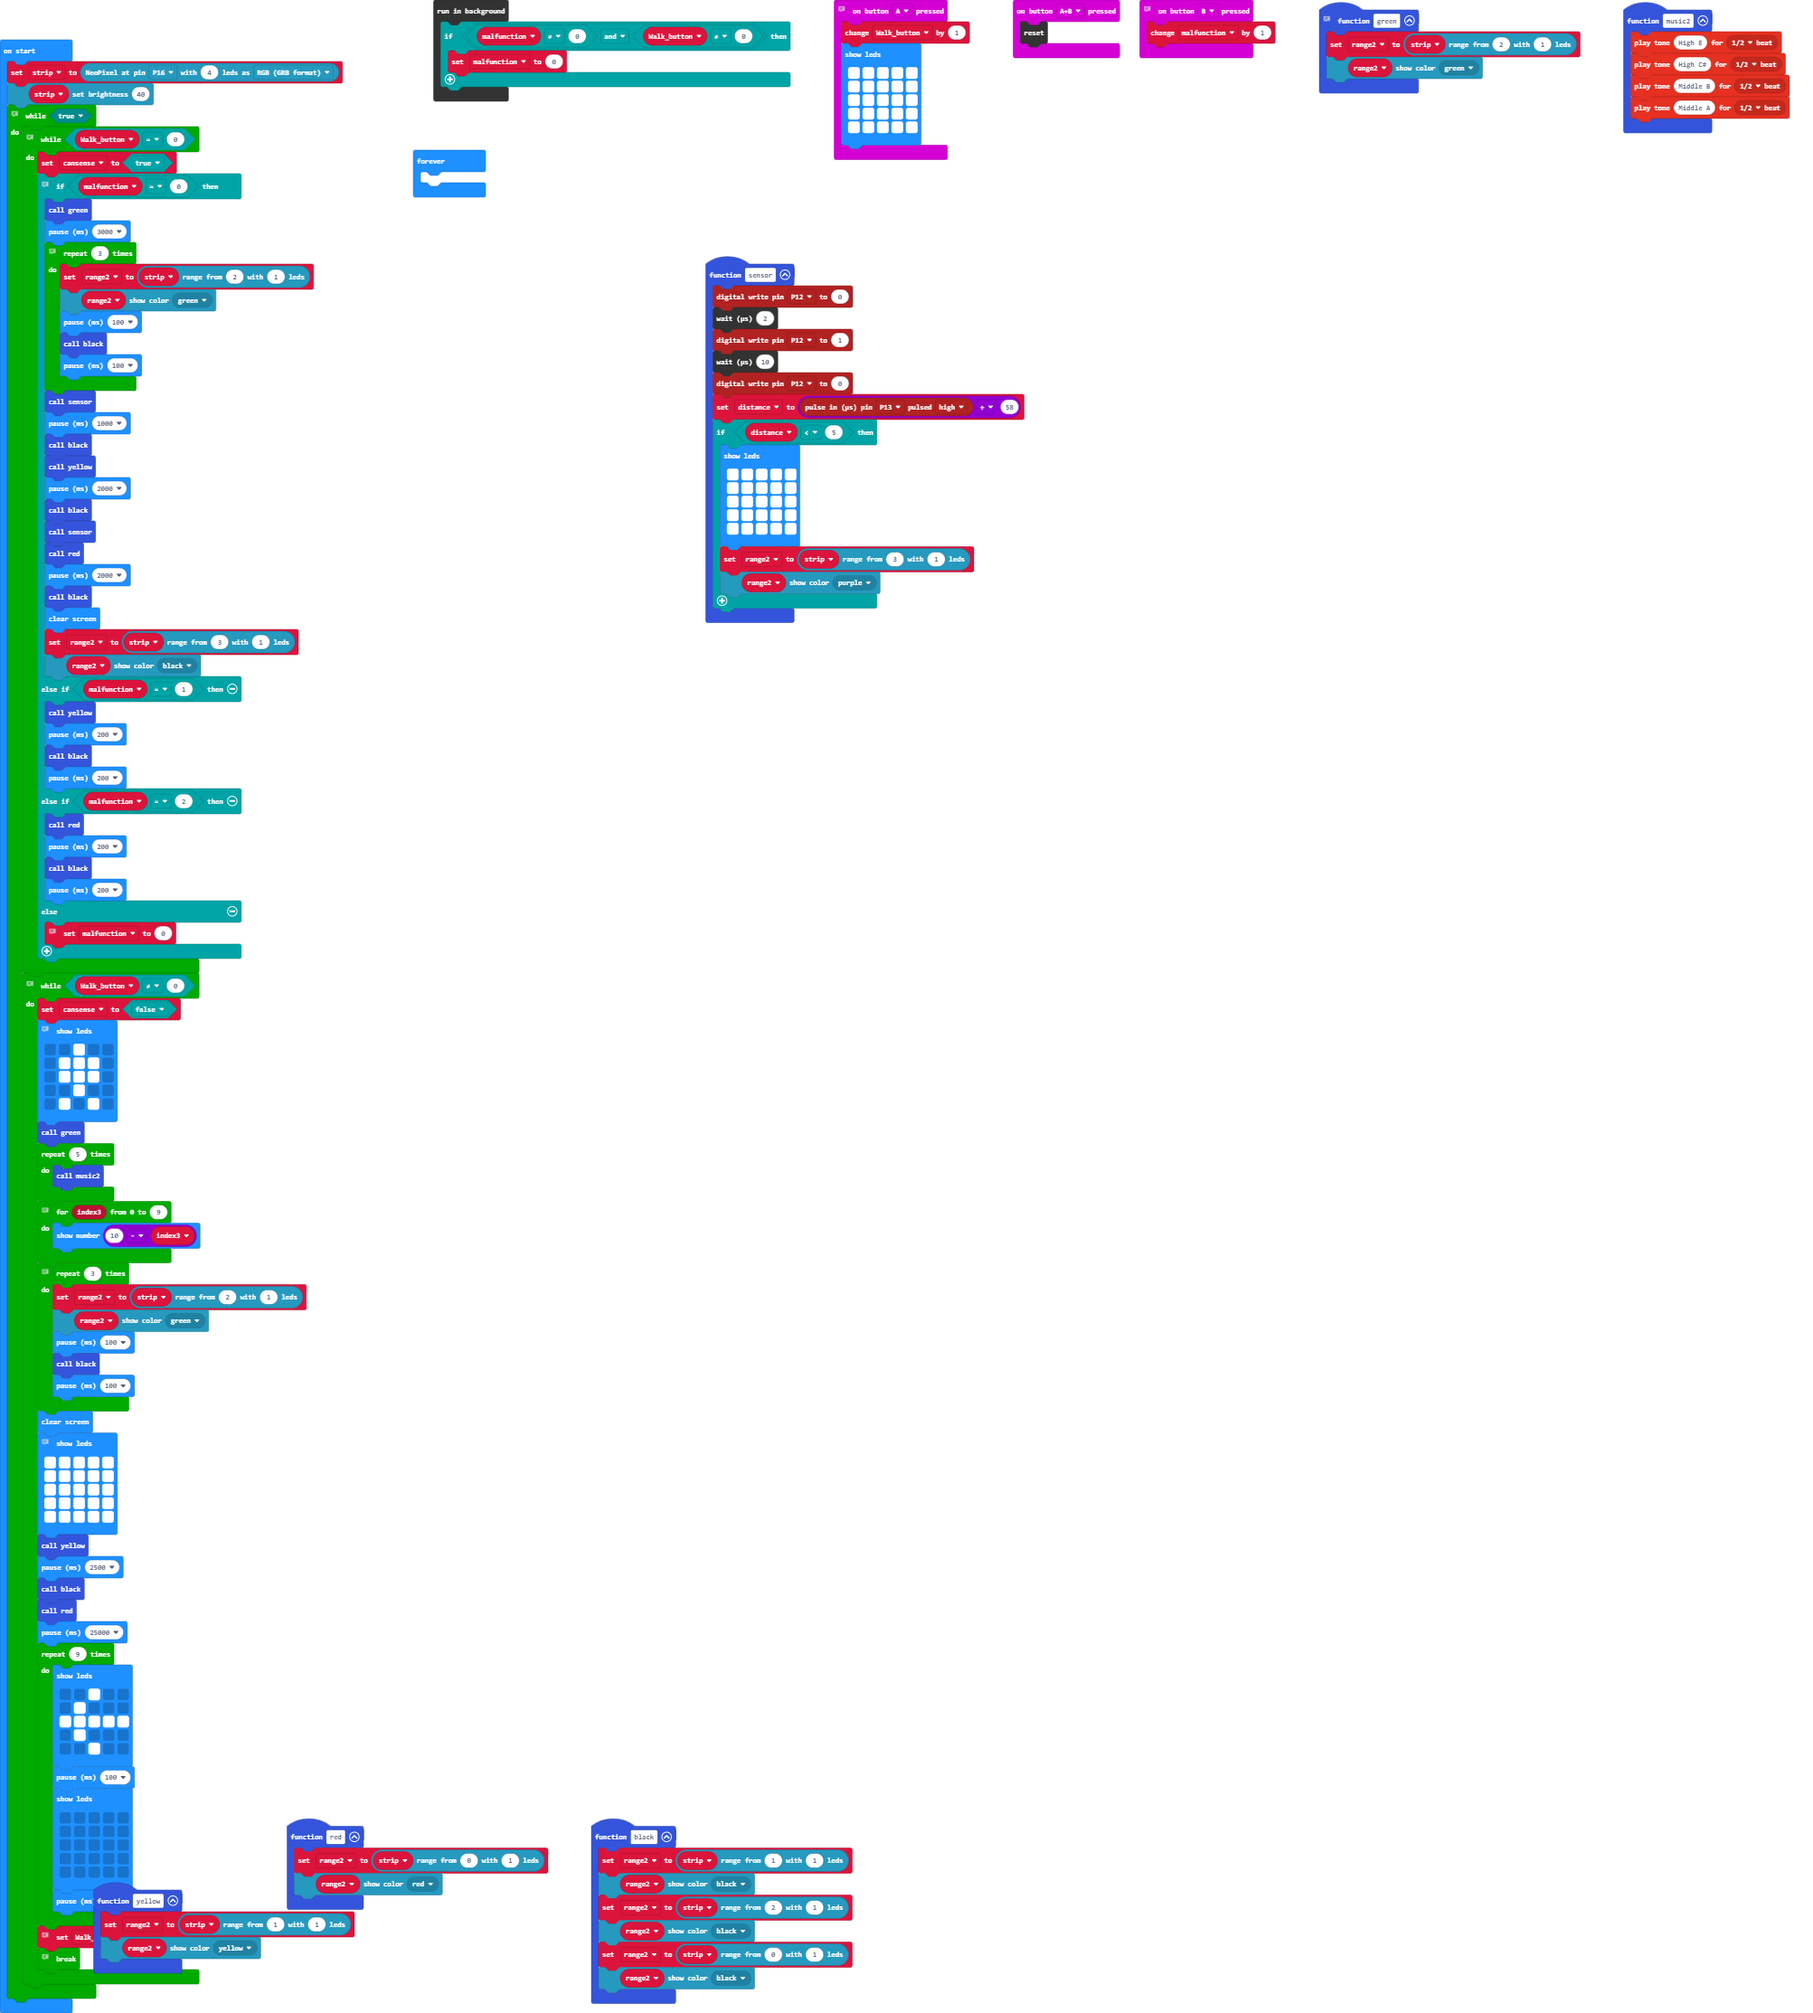
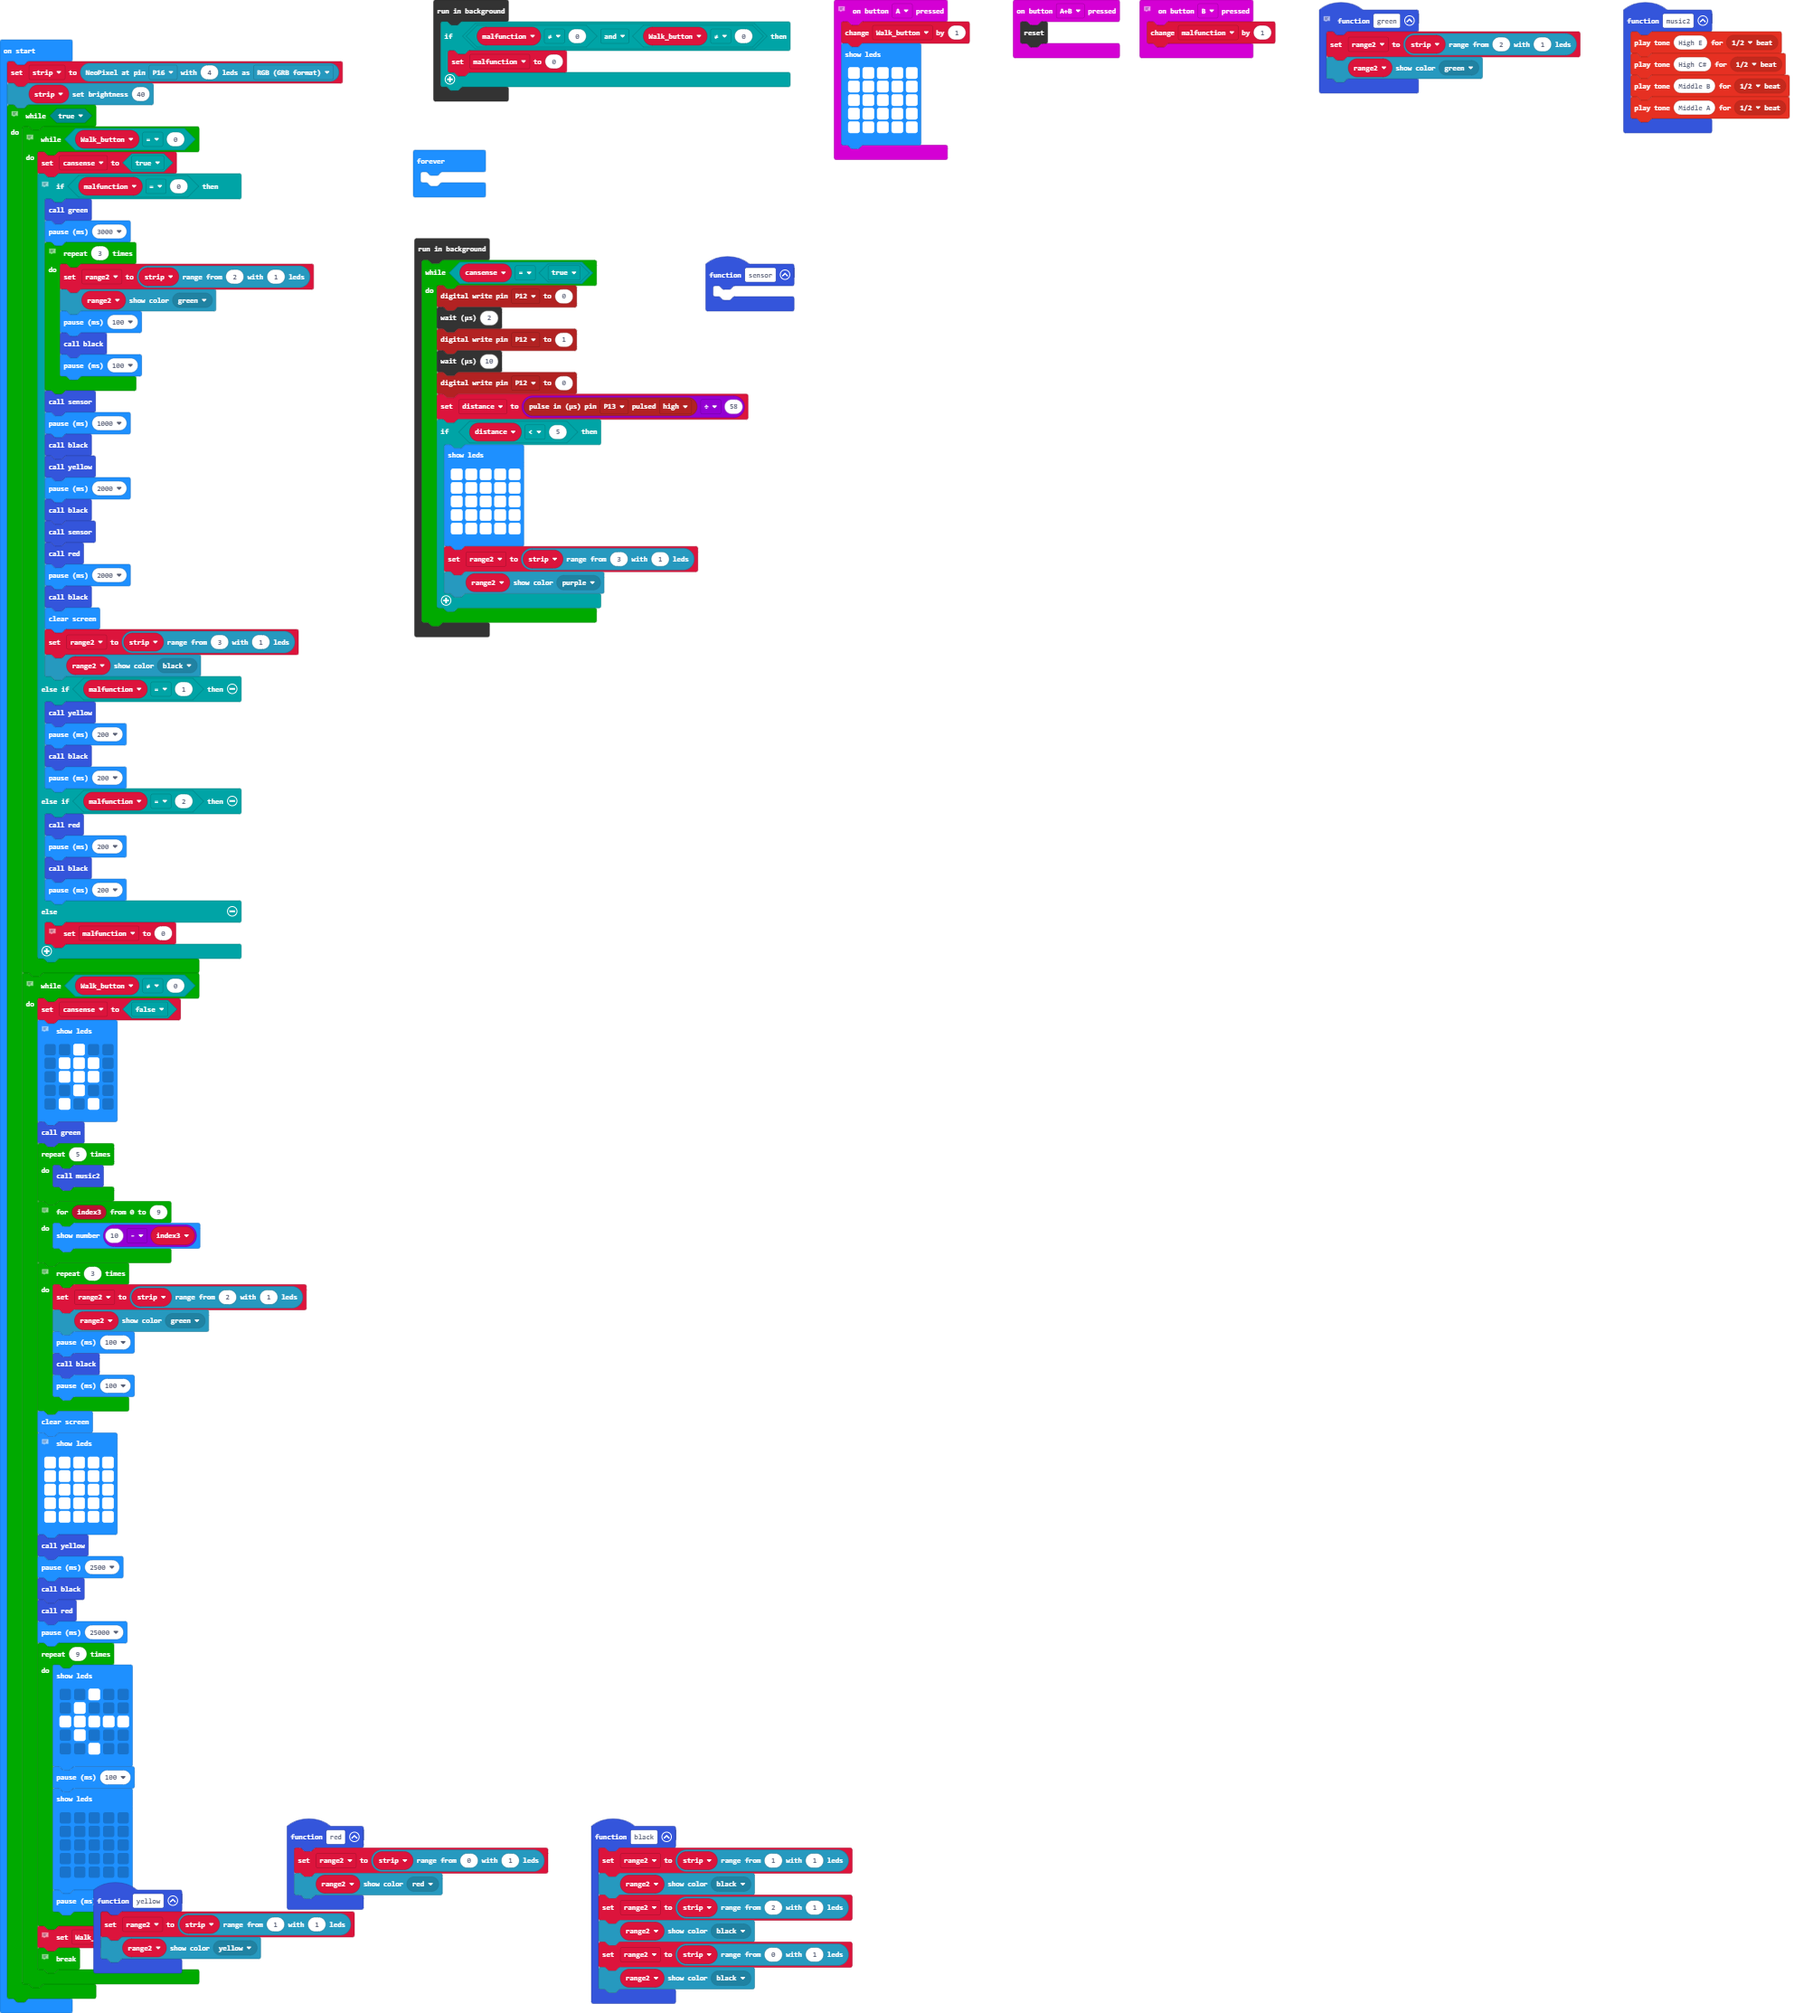
Update main.blocks, main.ts

Changed region(s): [[0.2165, 0.093, 0.5566, 0.341]]

diff --git a/main.ts b/main.ts
@@ -38,23 +38,7 @@ function black () {
     range2.showColor(neopixel.colors(NeoPixelColors.Black))
 }
 function sensor () {
-    pins.digitalWritePin(DigitalPin.P12, 0)
-    control.waitMicros(2)
-    pins.digitalWritePin(DigitalPin.P12, 1)
-    control.waitMicros(10)
-    pins.digitalWritePin(DigitalPin.P12, 0)
-    distance = pins.pulseIn(DigitalPin.P13, PulseValue.High) / 58
-    if (distance < 5) {
-        basic.showLeds(`
-            # # # # #
-            # # # # #
-            # # # # #
-            # # # # #
-            # # # # #
-            `)
-        range2 = strip.range(3, 1)
-        range2.showColor(neopixel.colors(NeoPixelColors.Purple))
-    }
+	
 }
 function music2 () {
     music.playTone(659, music.beat(BeatFraction.Half))
@@ -186,5 +170,26 @@ basic.forever(function () {
 control.inBackground(function () {
     if (malfunction != 0 && Walk_button != 0) {
         malfunction = 0
+    }
+})
+control.inBackground(function () {
+    while (cansense == true) {
+        pins.digitalWritePin(DigitalPin.P12, 0)
+        control.waitMicros(2)
+        pins.digitalWritePin(DigitalPin.P12, 1)
+        control.waitMicros(10)
+        pins.digitalWritePin(DigitalPin.P12, 0)
+        distance = pins.pulseIn(DigitalPin.P13, PulseValue.High) / 58
+        if (distance < 5) {
+            basic.showLeds(`
+                # # # # #
+                # # # # #
+                # # # # #
+                # # # # #
+                # # # # #
+                `)
+            range2 = strip.range(3, 1)
+            range2.showColor(neopixel.colors(NeoPixelColors.Purple))
+        }
     }
 })
